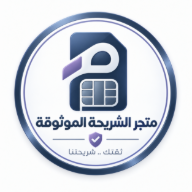
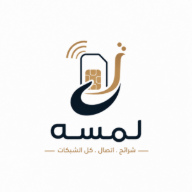
Finish

diff --git a/app/layout.tsx b/app/layout.tsx
@@ -35,9 +35,9 @@ export async function generateMetadata(): Promise<Metadata> {
   const c = await getCompany();
 
   // الاسم التجاري ثابت بغض النظر عن قيمة DB
-  const siteName = "الشريحه الموثوقه";
+  const siteName = "لمسة الثابتة";
   const titleDefault = `${siteName} | أفضل متجر لبيع شرائح الاتصال في السعودية`;
-  const description = c.details || "الشريحه الموثوقه - تسوق أفضل شرائح الاتصال وباقات الإنترنت من فيرجن وSTC وزين وموبايلي بأسعار مميزة. توصيل سريع لجميع مناطق المملكة العربية السعودية.";
+  const description = c.details?.replace(/الشريح[ةه] الموثوق[ةه]/g, "لمسة الثابتة") || "لمسة الثابتة - تسوق أفضل شرائح الاتصال وباقات الإنترنت من فيرجن وSTC وزين وموبايلي بأسعار مميزة. توصيل سريع لجميع مناطق المملكة العربية السعودية.";
   // og:image بنسبة 1.91:1 (1200×630) — لا تستخدم الشعار المربع
   const ogImage = `${SITE_URL}/og-image.webp`;
 
@@ -49,7 +49,7 @@ export async function generateMetadata(): Promise<Metadata> {
     },
     description,
     keywords: [
-      "الشريحه الموثوقه", "شريحه موثوقه", "بيع شرائح الاتصال",
+      "لمسة الثابتة", "لمسه الثابته", "بيع شرائح الاتصال",
       "شرائح اتصال", "باقات إنترنت", "شريحة SIM", "شريحة بيانات",
       "فيرجن موبايل", "Virgin Mobile", "STC", "زين", "موبايلي",
       "إنترنت مفتوح", "باقة شهرية", "باقة سنوية", "5G", "4G",

diff --git a/app/components/Footer.tsx b/app/components/Footer.tsx
@@ -57,9 +57,9 @@ export default async function Footer() {
 
           {/* Brand */}
           <div className="flex flex-col gap-4">
-            <Image src="/logo.webp" alt="logo" width={72} height={72} className="object-contain" />
+            <Image src="/logo.webp" alt="لمسة الثابتة" width={72} height={72} className="object-contain" />
             <p className="text-sm leading-7 text-gray-600 whitespace-pre-line">
-              الشريحه الموثوقه — شرائح اتصال وإنترنت بأسعار منافسة وباقات تناسب احتياجك، مع خدمة سريعة وآمنة وتجربة شراء بكل سهولة وثقة.
+              لمسة الثابتة — شرائح اتصال وإنترنت بأسعار منافسة وباقات تناسب احتياجك، مع خدمة سريعة وآمنة وتجربة شراء بكل سهولة وثقة.
             </p>
             <div className="flex flex-col gap-2">
               <a href="https://qr.saudibusiness.gov.sa/viewcr?nCrNumber=qkDdLTB2Uy+Be+pn809n2w==" target="_blank" rel="noreferrer"
@@ -158,7 +158,7 @@ export default async function Footer() {
         <div className="flex flex-col items-center gap-3 sm:flex-row sm:justify-between">
           <div className="flex items-center gap-2">
             <p className="text-xs text-gray-400">
-              © 2026 <span className="font-semibold text-gray-500">الشريحه الموثوقه</span> — جميع الحقوق محفوظة
+              © 2026 <span className="font-semibold text-gray-500">لمسة الثابتة</span> — جميع الحقوق محفوظة
             </p>
           </div>
           <div className="flex items-center gap-2">

diff --git a/app/product/[id]/page.tsx b/app/product/[id]/page.tsx
@@ -13,24 +13,15 @@ async function getProduct(id: string) {
   }
 }
 
-async function getCompany() {
-  try {
-    const r = await fetch(`${BACKEND}/api/admin/company`, { next: { revalidate: 3600 } });
-    return r.ok ? r.json() : {};
-  } catch {
-    return {};
-  }
-}
-
 export async function generateMetadata({ params }: { params: Promise<{ id: string }> }): Promise<Metadata> {
   const { id } = await params;
-  const [product, company] = await Promise.all([getProduct(id), getCompany()]);
+  const product = await getProduct(id);
 
   if (!product) {
     return { title: "المنتج غير موجود" };
   }
 
-  const siteName = company.nameAr || "الشريحه الموثوقه";
+  const siteName = "لمسة الثابتة";
   const title = product.name;
 
   const parts: string[] = [];
@@ -82,9 +73,9 @@ export async function generateMetadata({ params }: { params: Promise<{ id: strin
 
 export default async function ProductPage({ params }: { params: Promise<{ id: string }> }) {
   const { id } = await params;
-  const [product, company] = await Promise.all([getProduct(id), getCompany()]);
+  const product = await getProduct(id);
 
-  const siteName = company.nameAr || "الشريحه الموثوقه";
+  const siteName = "لمسة الثابتة";
   const price = product?.salePrice || product?.price || 0;
   const rawImg = product?.images?.[0] || product?.image || "";
   const imageUrl = rawImg.startsWith("http") ? rawImg : rawImg ? `${BACKEND}${rawImg}` : "";

diff --git a/app/about/page.tsx b/app/about/page.tsx
@@ -2,8 +2,8 @@ import type { Metadata } from "next";
 import AboutClient from "./AboutClient";
 
 export const metadata: Metadata = {
-  title: "من نحن - تعرف على الشريحه الموثوقه ورؤيتنا وخدماتنا",
-  description: "تعرف على الشريحه الموثوقه - رؤيتنا ورسالتنا والخدمات المميزة التي نقدمها لعملائنا في جميع أنحاء المملكة العربية السعودية. شرائح اتصال وباقات إنترنت بأسعار مميزة وتوصيل سريع.",
+  title: "من نحن - تعرف على لمسة الثابتة ورؤيتنا وخدماتنا",
+  description: "تعرف على لمسة الثابتة - رؤيتنا ورسالتنا والخدمات المميزة التي نقدمها لعملائنا في جميع أنحاء المملكة العربية السعودية. شرائح اتصال وباقات إنترنت بأسعار مميزة وتوصيل سريع.",
 };
 
 export default function AboutPage() {

diff --git a/app/sim-cards/page.tsx b/app/sim-cards/page.tsx
@@ -3,8 +3,8 @@ import type { Product } from "../components/products/types";
 import { sortProducts } from "../lib/sortProducts";
 
 export const metadata = {
-  title: "شرائح الاتصال | الشريحه الموثوقه",
-  description: "اختر شريحتك المناسبة من جميع شركات الاتصالات السعودية من الشريحه الموثوقه وتمتع باتصال سريع وتغطية قوية في كل مكان",
+  title: "شرائح الاتصال | لمسة الثابتة",
+  description: "اختر شريحتك المناسبة من جميع شركات الاتصالات السعودية من لمسة الثابتة وتمتع باتصال سريع وتغطية قوية في كل مكان",
 };
 
 const API = process.env.NEXT_PUBLIC_API_URL || "http://localhost:5000";

diff --git a/app/cart/layout.tsx b/app/cart/layout.tsx
@@ -4,7 +4,7 @@ const SITE_URL = "https://alshareehasim.com";
 
 export async function generateMetadata(): Promise<Metadata> {
   return {
-    title: "سلة التسوق - راجع منتجاتك وأكمل طلبك بسهولة | الشريحه الموثوقه",
+    title: "سلة التسوق - راجع منتجاتك وأكمل طلبك بسهولة | لمسة الثابتة",
     description: "راجع المنتجات المضافة لسلتك وأكمل طلبك بسهولة. تقسيط مريح وشحن مجاني لجميع مناطق المملكة.",
     robots: { index: false, follow: false },
     alternates: { canonical: `${SITE_URL}/cart` },

diff --git a/app/checkout/layout.tsx b/app/checkout/layout.tsx
@@ -6,7 +6,7 @@ const SITE_URL = "https://alshareehasim.com";
 
 export async function generateMetadata(): Promise<Metadata> {
   return {
-    title: "إتمام الطلب - أكمل عملية الشراء بأمان وسهولة | الشريحه الموثوقه",
+    title: "إتمام الطلب - أكمل عملية الشراء بأمان وسهولة | لمسة الثابتة",
     description: "أكمل عملية الشراء بأمان تام. دفع مشفر وآمن مع خيارات تقسيط مريحة بدون فوائد.",
     robots: { index: false, follow: false },
     alternates: { canonical: `${SITE_URL}/checkout` },

diff --git a/app/all-products/page.tsx b/app/all-products/page.tsx
@@ -2,8 +2,8 @@ import { Suspense } from "react";
 import AllProductsClient from "./AllProductsClient";
 
 export const metadata = {
-  title: "جميع الشرائح | الشريحه الموثوقه",
-  description: "تصفح جميع شرائح الاتصال وباقات الإنترنت بأفضل الأسعار من الشريحه الموثوقه",
+  title: "جميع الشرائح | لمسة الثابتة",
+  description: "تصفح جميع شرائح الاتصال وباقات الإنترنت بأفضل الأسعار من لمسة الثابتة",
 };
 
 export default function AllProductsPage() {

diff --git a/app/(categories)/[slug]/page.tsx b/app/(categories)/[slug]/page.tsx
@@ -5,7 +5,7 @@ import CategoryPageClient from "./CategoryPageClient";
 const SITE_URL = "https://alshareehasim.com";
 // Fix 13: إزالة getCompany() من كل category page — كانت تُضيف DB call لكل slug
 // siteName ثابت — يمكن تحديثه هنا بدل جلبه من API في كل request
-const SITE_NAME = process.env.NEXT_PUBLIC_SITE_NAME || "الشريحه الموثوقه";
+const SITE_NAME = "لمسة الثابتة";
 
 export async function generateMetadata({ params }: { params: Promise<{ slug: string }> }): Promise<Metadata> {
   const { slug } = await params;

diff --git a/app/page.tsx b/app/page.tsx
@@ -20,7 +20,7 @@ async function getCompany() {
 
 export default async function Home() {
   const c = await getCompany();
-  const siteName = c.nameAr || "الشريحه الموثوقه";
+  const siteName = "لمسة الثابتة";
   const logoUrl = c.logo
     ? (c.logo.startsWith("http") ? c.logo : `${BACKEND}${c.logo}`)
     : "";
